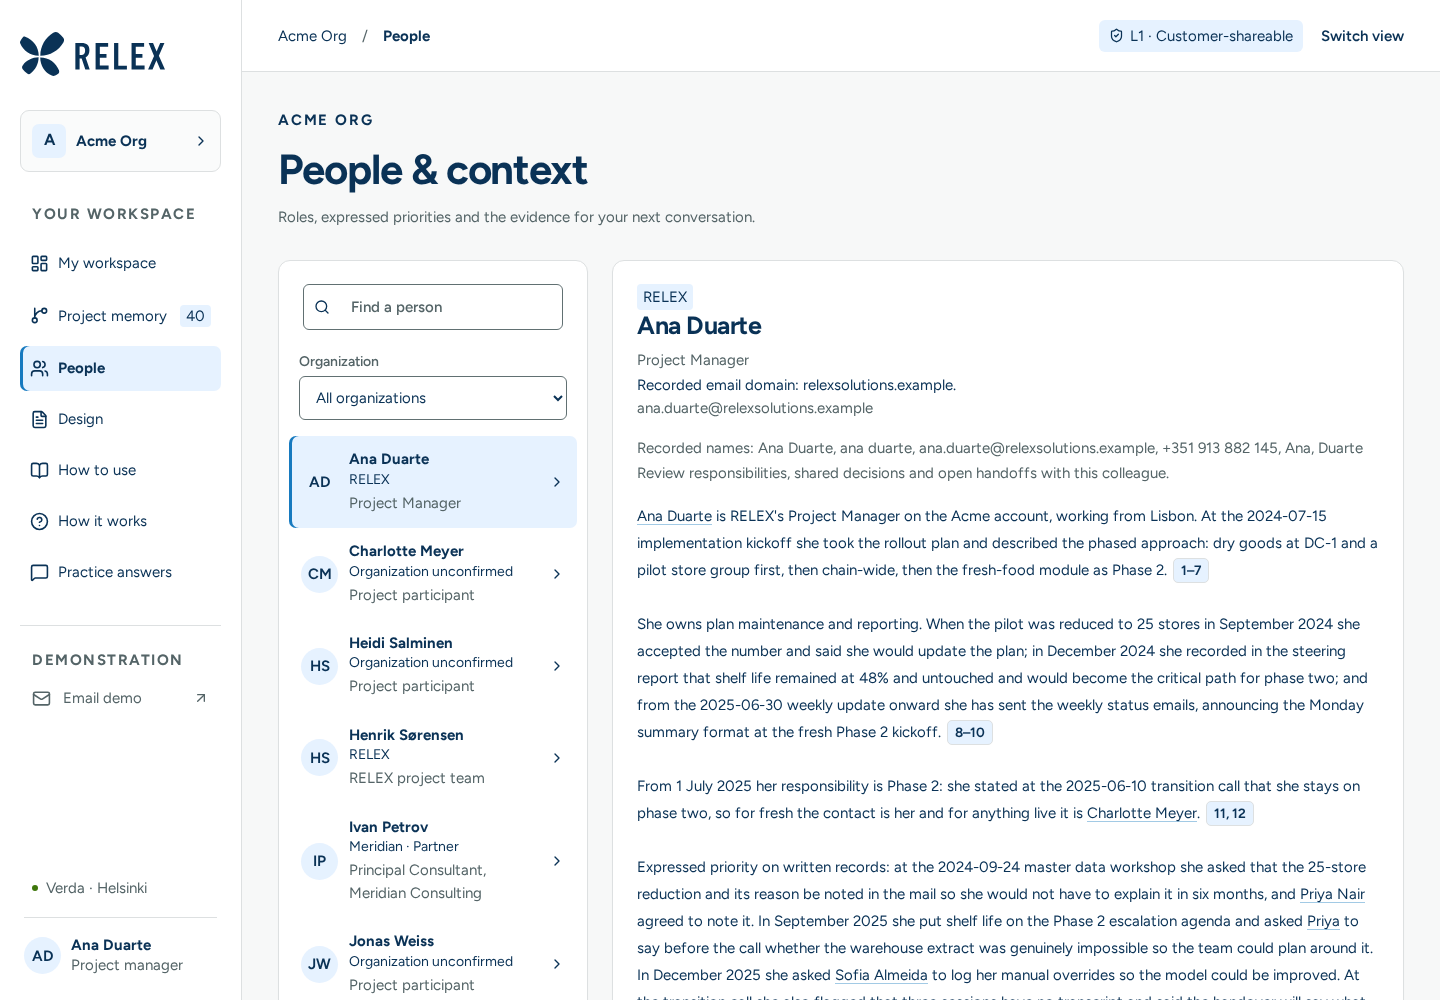
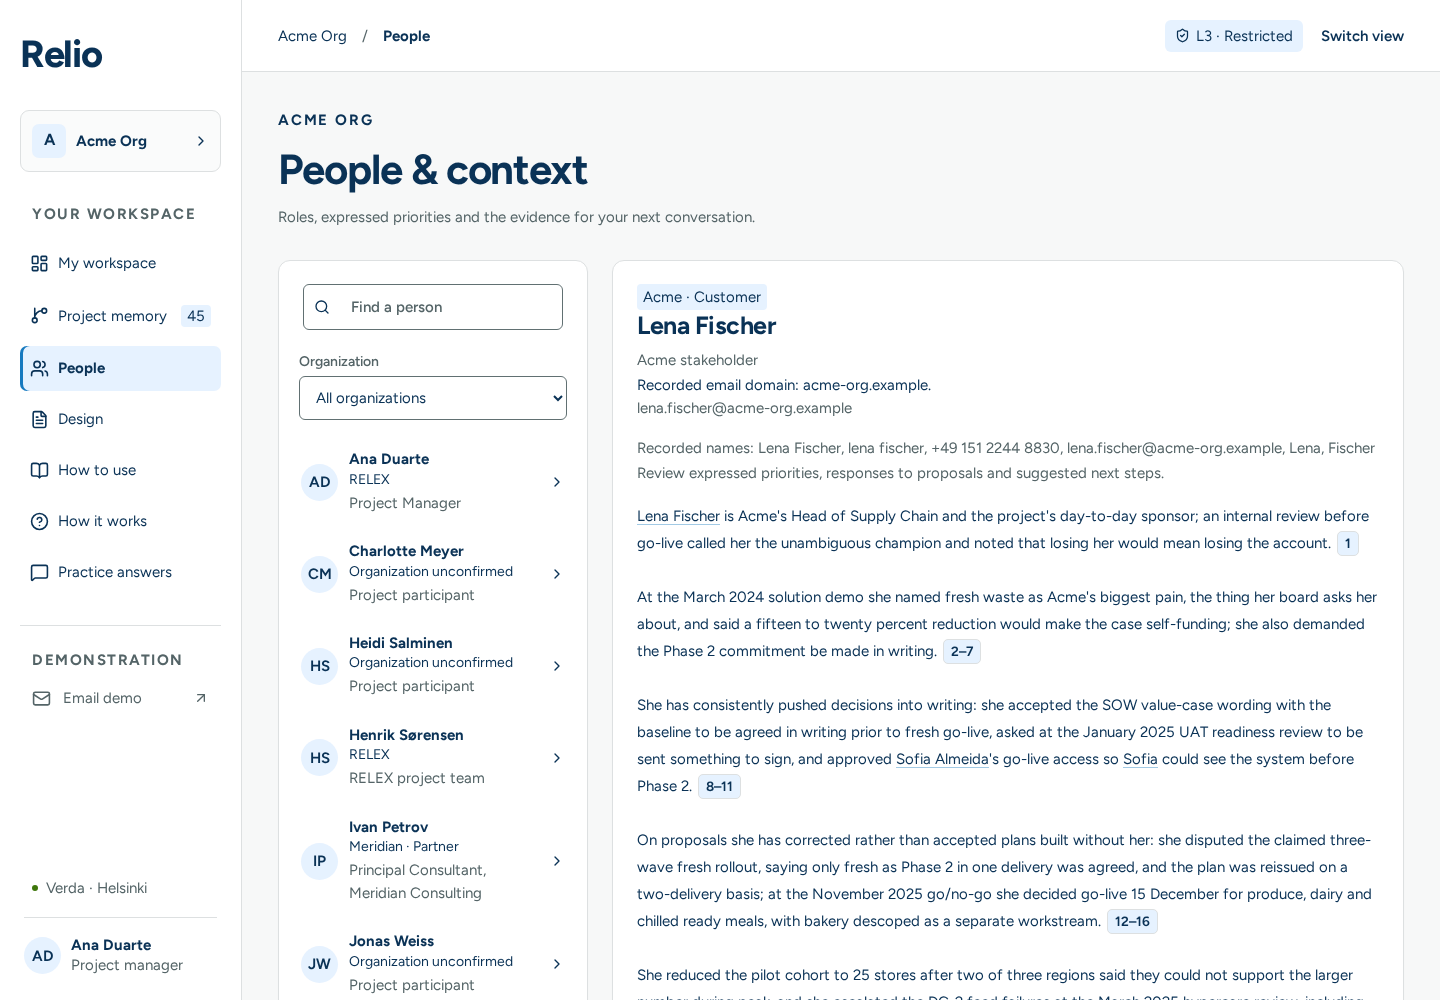
Record completed People preparation and persistence verification

diff --git a/docs/PREPARED_PEOPLE.md b/docs/PREPARED_PEOPLE.md
@@ -19,15 +19,35 @@ The service uses the fixed project working directory and `data/app.sqlite`, outs
 Run preparation from the project directory:
 
 ```sh
-node --import tsx scripts/prepare-people.mts
+node --env-file-if-exists=.env --import tsx scripts/prepare-people.mts
 ```
 
-The script appends outcomes to `data/people-preparation.jsonl` and skips existing valid results. Rerunning resumes missing or failed profiles without repeating completed calls. `PREPARE_WORKSPACE`, `PREPARE_OWNER` and `PREPARE_LEVEL` restrict a run; `PREPARE_CONCURRENCY=1` reduces the default two workers. The configured Verda endpoint and original evidence verification remain in use. Guidance requests place the stable permitted evidence before the changing task and private context to support provider prefix reuse. Source content remains explicitly untrusted. Newly generated guides request 3–5 short paragraphs and at most 250 words; completed guides are preserved.
+The script appends outcomes to `data/people-preparation.jsonl` and skips existing valid results. Rerunning resumes missing or failed profiles without repeating completed calls. `PREPARE_WORKSPACE`, `PREPARE_OWNER` and `PREPARE_LEVEL` restrict a run; `PREPARE_PEOPLE` accepts exact names separated by `|`; `PREPARE_CONCURRENCY=1` reduces the default two workers. The configured Verda endpoint and original evidence verification remain in use. Guidance requests place the stable permitted evidence before the changing task and private context to support provider prefix reuse. Source content remains explicitly untrusted. Newly generated guides request 3–5 short paragraphs and at most 250 words; completed guides are preserved.
 
 The live browser service has its own bounded background queue. After a process interruption, revisiting People queues any missing profiles whose interrupted job needs recovery. Completed guidance stays available even if inference is temporarily unavailable.
 
 ## Validation
 
-Four focused deterministic checks cover context reuse and isolation, fresh-demo reset preservation, erasure exclusion, queue deduplication and interrupted preparation recovery. The full deterministic suite passes 72 tests. The public People browser workflow passes. Desktop and mobile captures show stored guidance with the generation button absent; mobile has no horizontal overflow. The 110 baseline guides and 20 guides for an existing personalized browser context are being prepared resumably. Final batch counts are recorded when generation completes.
+Four focused deterministic checks cover context reuse and isolation, fresh-demo reset preservation, erasure exclusion, queue deduplication and interrupted preparation recovery. The full deterministic suite passes 75 tests, including three transport checks for one bounded fresh-connection retry, cancellation and a second socket failure. The public People browser workflow passes. Desktop and mobile captures show stored guidance with the generation button absent; mobile has no horizontal overflow. Generation is complete: all 110 baseline guides and 20 guides for an existing personalized Ana context are stored and readable.
 
 All 13 answers completed before the first deployment retained their exact IDs after the service restarted. An additional 13 focused workflow/preparation tests passed after the guidance-only prompt ordering change.
+
+## Completed preparation, 20 September
+
+The final current-context read check completed at 08:30 UTC. Fresh workspace reads reused every baseline guide; the existing personalized Ana workspace also returned all 20 guides.
+
+| Employee/view | L1 | L2 | L3 | Total |
+| --- | ---: | ---: | ---: | ---: |
+| Ana baseline | 18 | 18 | 20 | 56 |
+| Marco baseline | 18 | 18 | — | 36 |
+| Nadia baseline | 18 | — | — | 18 |
+| Existing personalized Ana view | — | — | 20 | 20 |
+| Total | 54 | 36 | 40 | 130 |
+
+All 130 requested guides are available, with zero missing profiles. The journal records 13 unsuccessful earlier attempts, resolved through resume. The later 43-guide phase completed without a failed profile. Four concurrent inference requests were used, with all slots assigned to Ana until her 76 variants were ready. The remaining persona scopes followed. Preparation workers have exited.
+
+The final persistence check compared answer IDs from the journal with SQLite: all 118 guides completed before the latest service deployment were still present afterward. This count includes additional guides generated automatically in browser sessions. The required 130-guide coverage is checked independently against each current scope and fingerprint, rather than inferred from a total row count. The local report is `data/people-preparation-verification.json`; the append-only journal is `data/people-preparation.jsonl`.
+
+Fresh Chromium navigation on https://relio-ai.eu opened all 20 default Ana profiles, waited for each selected person's heading and stored guidance, and confirmed the old generation button was absent. Desktop and mobile captures are in `docs/screenshots/people-prepared-desktop.png` and `people-prepared-mobile.png`. Mobile had no horizontal overflow.
+
+The page loader now reuses one scoped person snapshot per request. End-to-end profile HTTP samples remained around 2.3 seconds, so this change has no claimed measured page-speed gain. It introduces no cross-request identity cache. A new project or private-memory context prepares updated guidance automatically; the completed matching context remains durable.

diff --git a/docs/VALIDATION.md b/docs/VALIDATION.md
@@ -151,3 +151,5 @@ The fixes were committed as `aeaa4f8` and published as immutable release `2026-0
 ## Prepared People guidance, 20 September
 
 The manual guidance button has been removed. Completed profile guidance is retained in SQLite and loaded for the matching employee, access level, evidence and private context. Check/build and 72 deterministic tests pass, including four preparation persistence/scope tests. The public People browser workflow passed, and separate desktop/mobile inspection confirmed a stored guide is visible without generation, the old button is absent and mobile has no horizontal overflow. The service was atomically deployed during batch preparation; in-progress baseline contexts prevent duplicate visitor jobs. Batch counts and operations are tracked in `PREPARED_PEOPLE.md`.
+
+Prepared-guidance final result: 130/130 current-context guides were readable at 08:30 UTC: Ana baseline 56, Marco baseline 36, Nadia baseline 18, and an existing personalized Ana view 20. All 118 answer IDs completed before the latest service restart survived it. Thirteen recorded unsuccessful attempts were resolved through resume; no required profile remains missing. The final 43-guide phase completed without failed profiles. All 75 deterministic tests, the public People browser workflow and a separate fresh-browser visit to all 20 default Ana profiles passed. Desktop/mobile captures use Relio branding and the canonical domain. The final read-check report and preparation journal remain in the private data directory.
